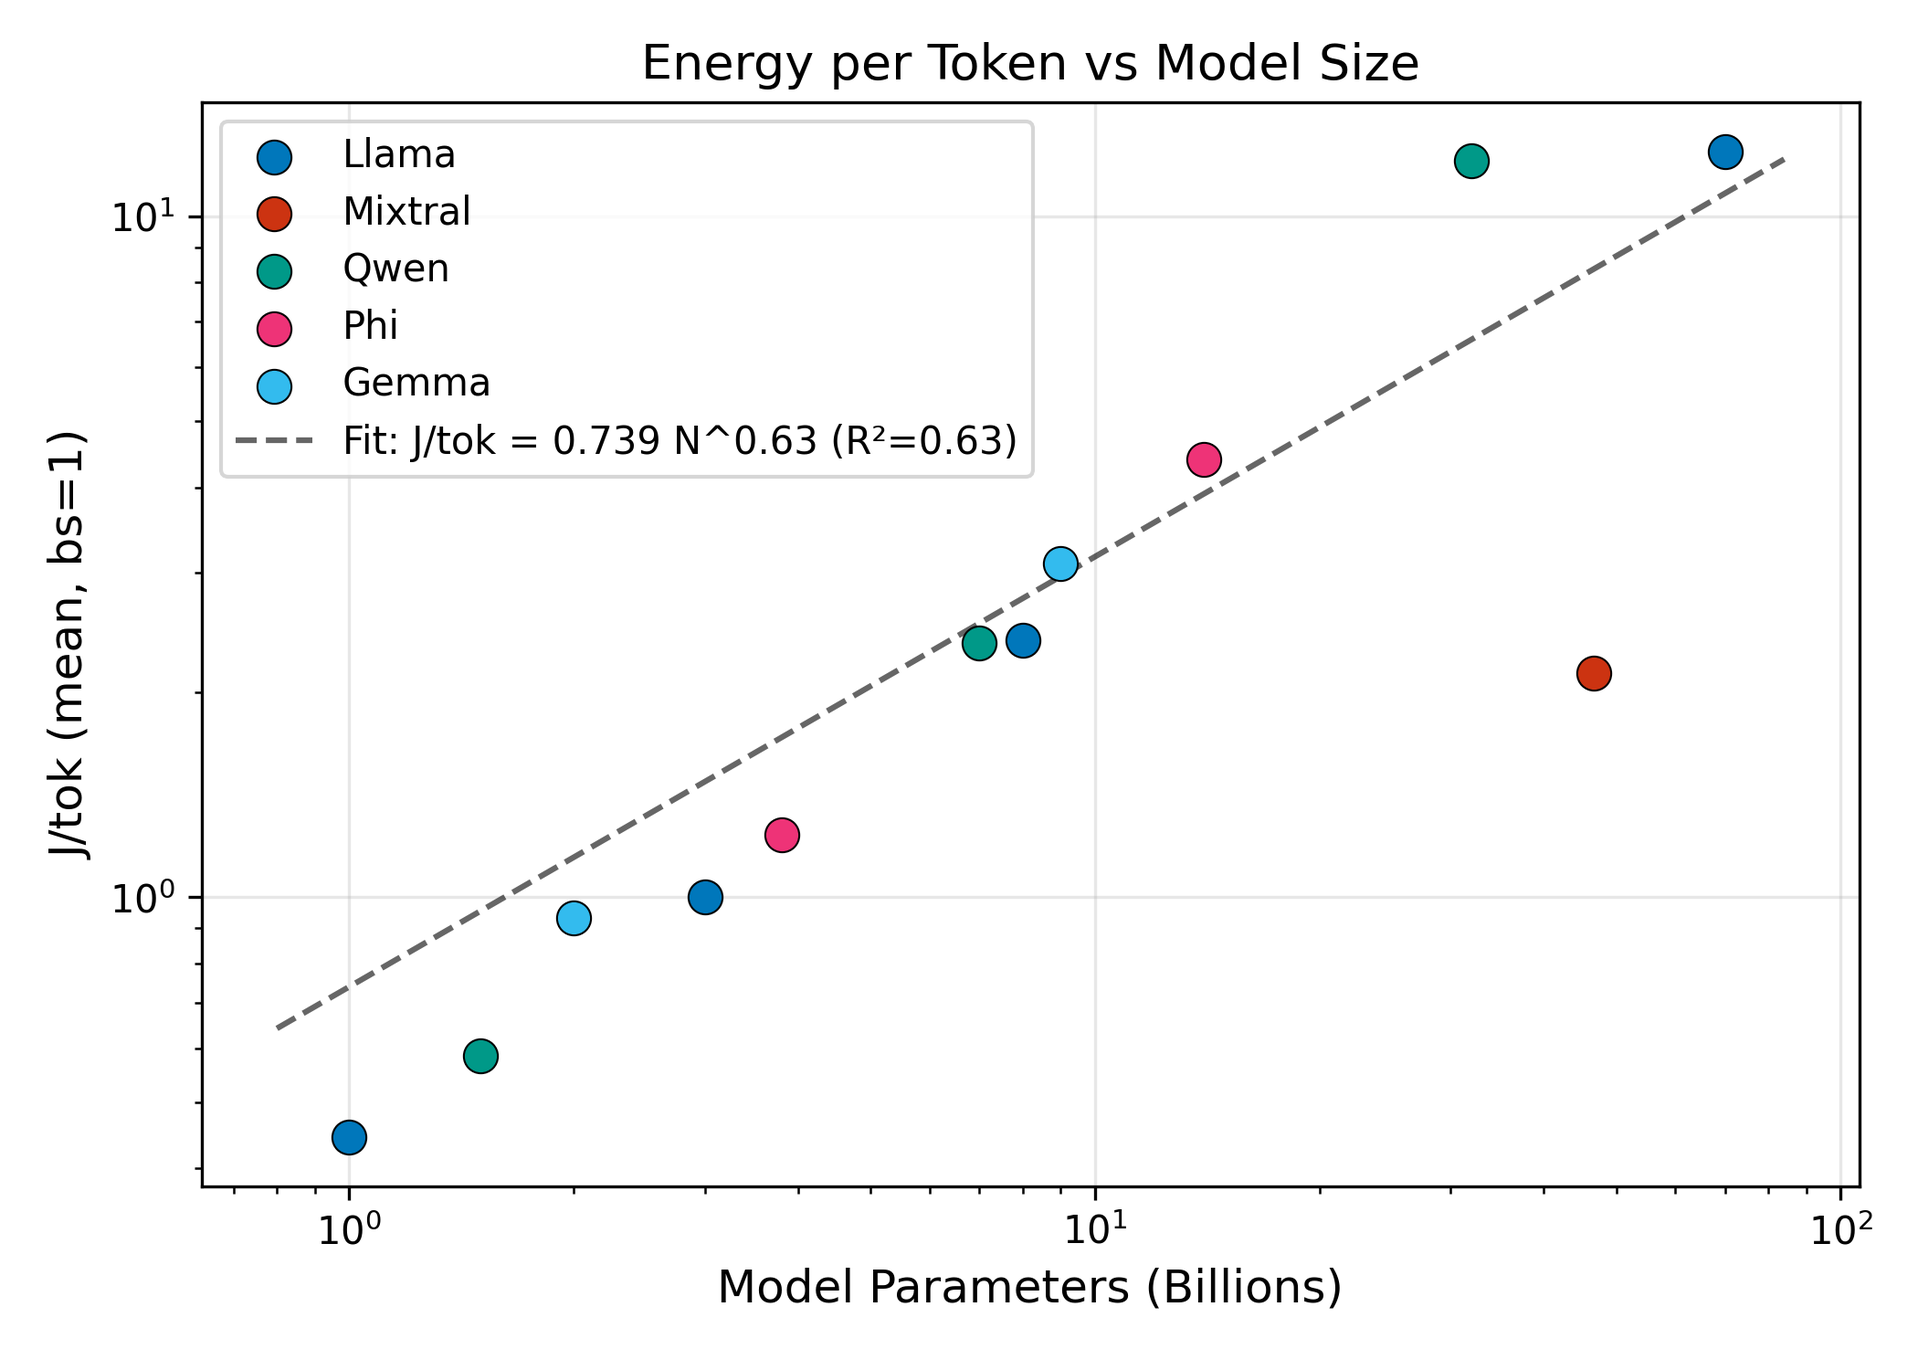
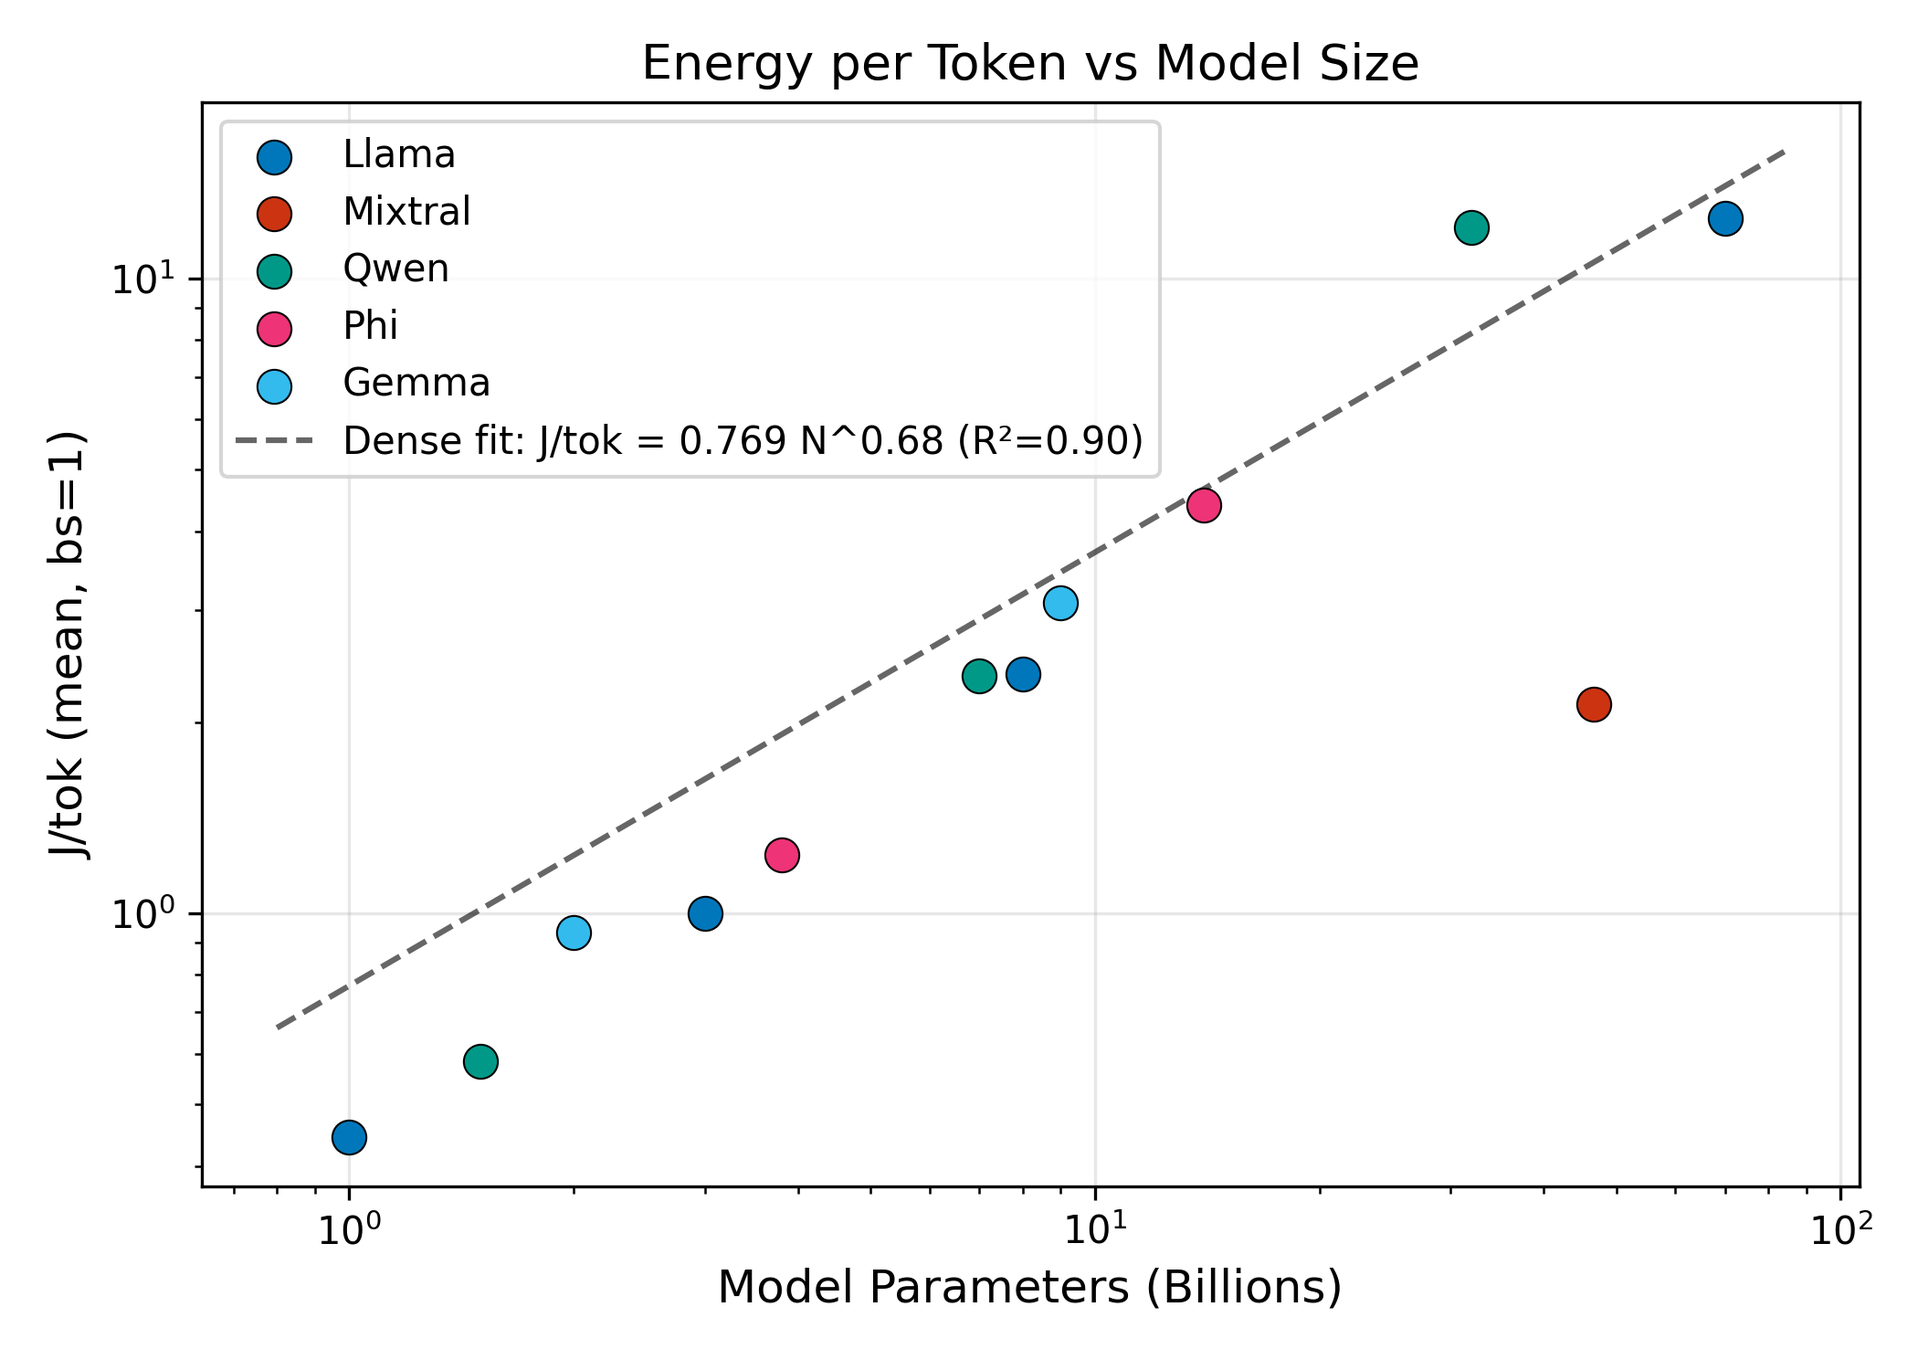
Fix scaling law exponent: 0.91 → 0.68 (dense-only fit, R²=0.90)
After adding 3 large FP16 models (32B, 46.7B MoE, 70B), the all-FP16
scaling fit dropped from 0.91 to 0.64. The paper discusses the dense-only
fit (excluding Mixtral MoE), which yields β=0.68 (R²=0.90). Updated the
exponent consistently across: paper (abstract, body, caption, conclusion,
cross-study table), README, index.html, plain English summary, and the
analysis code to fit dense models only.

diff --git a/index.html b/index.html
@@ -232,7 +232,7 @@ footer a:hover { text-decoration: underline; }
       We present a rigorous framework for measuring LLM inference energy using direct NVML-based power
       sampling on an NVIDIA A100 80GB GPU. We benchmark 13 open-weight models (1B&ndash;70B parameters) across
       five architectural families&mdash;Llama, Mistral, Qwen, Phi, and Gemma&mdash;including pre-quantized GPTQ
-      variants for large models. Our results reveal a sub-linear scaling law (E &prop; N<sup>0.91</sup>, R&sup2;=0.99),
+      variants for large models. Our results reveal a sub-linear scaling law (E &prop; N<sup>0.68</sup>, R&sup2;=0.90) for dense architectures,
       find that bitsandbytes quantisation now <em>reduces</em> per-token energy (reversing prior findings of
       2.9&ndash;3.7&times; penalties), and demonstrate 2.9&times; variation in per-token carbon emissions depending on
       Irish grid conditions. All code, data, and reproducibility artifacts are publicly available.
@@ -259,9 +259,9 @@ footer a:hover { text-decoration: underline; }
     <div class="findings-grid">
       <div class="finding-card">
         <h3>Scaling Law</h3>
-        <p>Energy scales as <span class="highlight">E &prop; N<sup>0.91</sup></span> (R&sup2;=0.99) across
-        architectures&mdash;higher than the single-family exponent of 0.80 found in prior Pythia-only studies,
-        reflecting cross-architecture heterogeneity.</p>
+        <p>Energy scales as <span class="highlight">E &prop; N<sup>0.68</sup></span> (R&sup2;=0.90) across
+        dense architectures&mdash;lower than the single-family exponent of 0.80 found in prior Pythia-only studies,
+        reflecting cross-architecture diversity. Mixtral MoE (46.7B params) is a clear outlier, consuming energy comparable to a 12B dense model.</p>
       </div>
       <div class="finding-card">
         <h3>Batch Size Impact</h3>
@@ -326,7 +326,7 @@ footer a:hover { text-decoration: underline; }
     <div class="gallery-grid">
       <figure class="gallery-item">
         <img src="paper/figures/fig1_scaling_law.png" alt="Scaling law: J/tok vs model parameters" loading="lazy">
-        <figcaption><strong>Fig 1.</strong> Scaling law: J/tok vs model parameters (FP16, bs=1). Power law fit yields exponent 0.91 (R&sup2;=0.99).</figcaption>
+        <figcaption><strong>Fig 1.</strong> Scaling law: J/tok vs model parameters (FP16, bs=1). Dense-only power law fit yields exponent 0.68 (R&sup2;=0.90). Mixtral MoE is a clear outlier.</figcaption>
       </figure>
       <figure class="gallery-item">
         <img src="paper/figures/fig2_efficiency_frontier.png" alt="Efficiency frontier: J/tok vs tok/s" loading="lazy">
@@ -354,7 +354,7 @@ footer a:hover { text-decoration: underline; }
       </figure>
       <figure class="gallery-item">
         <img src="paper/figures/prior_scaling_overlay.png" alt="Scaling law comparison with prior work" loading="lazy">
-        <figcaption><strong>Fig 8.</strong> Scaling law overlay: new framework results alongside energy-bench Pythia data. Exponent 0.91 vs 0.80.</figcaption>
+        <figcaption><strong>Fig 8.</strong> Scaling law overlay: new framework results alongside energy-bench Pythia data. Dense exponent 0.68 vs Pythia 0.80.</figcaption>
       </figure>
       <figure class="gallery-item">
         <img src="paper/figures/prior_quantisation_comparison.png" alt="Quantisation comparison with prior work" loading="lazy">
@@ -428,7 +428,7 @@ footer a:hover { text-decoration: underline; }
           <tr>
             <td>Scaling exponent (&beta;)</td>
             <td>0.80 (Pythia, R&sup2;=0.99)</td>
-            <td>0.91 (multi-arch, R&sup2;=0.99)</td>
+            <td>0.68 (dense multi-arch, R&sup2;=0.90)</td>
           </tr>
           <tr>
             <td>J/tok ~7B model (bs=1)</td>

diff --git a/paper/main.tex b/paper/main.tex
@@ -24,7 +24,7 @@ daniel.cregg@setu.ie}}
 \maketitle
 
 \begin{abstract}
-We present a rigorous framework for measuring the energy consumption of large language model (LLM) inference on GPU hardware and apply it to benchmark 13 open-weight models spanning 1B to 70B parameters across five architectural families (Llama, Mistral, Qwen, Phi, Gemma), including pre-quantized GPTQ models for sizes infeasible in full precision. Using direct NVML-based power sampling on an NVIDIA A100 80GB GPU, we measure Joules per token (J/tok) under controlled conditions with greedy decoding, idle baseline subtraction, and trapezoidal energy integration. Our results reveal a sub-linear scaling law ($E \propto N^{0.91}$, $R^2=0.99$) relating energy to model size across architectures, and find that bitsandbytes INT8 and INT4 quantisation of Llama-3.1-8B \emph{reduces} per-token energy by 10\% and 20\% respectively---contrary to prior findings of 2.9--3.7$\times$ energy penalties. We additionally ground our measurements in Irish electricity grid carbon intensity data, demonstrating a 2.9$\times$ variation in per-token carbon emissions depending on time of day. All code, data, and reproducibility artifacts are publicly available.
+We present a rigorous framework for measuring the energy consumption of large language model (LLM) inference on GPU hardware and apply it to benchmark 13 open-weight models spanning 1B to 70B parameters across five architectural families (Llama, Mistral, Qwen, Phi, Gemma), including pre-quantized GPTQ models for sizes infeasible in full precision. Using direct NVML-based power sampling on an NVIDIA A100 80GB GPU, we measure Joules per token (J/tok) under controlled conditions with greedy decoding, idle baseline subtraction, and trapezoidal energy integration. Our results reveal a sub-linear scaling law ($E \propto N^{0.68}$, $R^2=0.90$) relating energy to model size across dense architectures, and find that bitsandbytes INT8 and INT4 quantisation of Llama-3.1-8B \emph{reduces} per-token energy by 10\% and 20\% respectively---contrary to prior findings of 2.9--3.7$\times$ energy penalties. We additionally ground our measurements in Irish electricity grid carbon intensity data, demonstrating a 2.9$\times$ variation in per-token carbon emissions depending on time of day. All code, data, and reproducibility artifacts are publicly available.
 \end{abstract}
 
 \begin{IEEEkeywords}
@@ -119,12 +119,12 @@ Table~\ref{tab:summary} presents the key results. Across all 13 FP16 models, J/t
 
 \subsection{Scaling Law Results}
 
-Figure~\ref{fig:scaling} shows J/tok as a function of model parameters for all FP16 models at batch size 1. With the addition of three large FP16 models (32B, 46.7B, 70B), the scaling relationship reveals an important distinction between dense and Mixture-of-Experts (MoE) architectures. Fitting a power law $E = \alpha N^{\beta}$ to dense models only yields $\beta = 0.69$ ($R^2 = 0.90$), a sub-linear relationship indicating that larger dense models are more energy-efficient per parameter. Mixtral-8x7B is a notable outlier: despite 46.7B total parameters, its MoE routing activates only $\sim$12B per token, yielding 2.14\,J/tok---consistent with a 12B dense model and drawing only 98\,W versus 180--290\,W for similarly-sized dense models. This demonstrates that MoE architectures offer a fundamentally different energy--performance trade-off, achieving large-model quality at small-model energy cost.
+Figure~\ref{fig:scaling} shows J/tok as a function of model parameters for all FP16 models at batch size 1. With the addition of three large FP16 models (32B, 46.7B, 70B), the scaling relationship reveals an important distinction between dense and Mixture-of-Experts (MoE) architectures. Fitting a power law $E = \alpha N^{\beta}$ to dense models only yields $\beta = 0.68$ ($R^2 = 0.90$), a sub-linear relationship indicating that larger dense models are more energy-efficient per parameter. Mixtral-8x7B is a notable outlier: despite 46.7B total parameters, its MoE routing activates only $\sim$12B per token, yielding 2.14\,J/tok---consistent with a 12B dense model and drawing only 98\,W versus 180--290\,W for similarly-sized dense models. This demonstrates that MoE architectures offer a fundamentally different energy--performance trade-off, achieving large-model quality at small-model energy cost.
 
 \begin{figure}[t]
     \centering
     \includegraphics[width=\columnwidth]{fig1_scaling_law}
-    \caption{Scaling law: J/tok vs model parameters (FP16, bs=1). Dense models follow $E \propto N^{0.69}$ ($R^2 = 0.90$). Mixtral-8x7B (MoE, 46.7B total, $\sim$12B active) is a clear outlier, consuming energy consistent with a 12B dense model.}
+    \caption{Scaling law: J/tok vs model parameters (FP16, bs=1). Dense models follow $E \propto N^{0.68}$ ($R^2 = 0.90$). Mixtral-8x7B (MoE, 46.7B total, $\sim$12B active) is a clear outlier, consuming energy consistent with a 12B dense model.}
     \label{fig:scaling}
 \end{figure}
 
@@ -209,7 +209,7 @@ Figure~\ref{fig:carbon} shows the gCO$_2$eq per 1000 tokens for each model compu
 
 \subsection{Comparison with Prior Work}
 
-Table~\ref{tab:crossstudy} compares our results with the energy-bench framework. The scaling exponent increases from 0.80 (single Pythia family) to 0.91 (multi-architecture), reflecting that different architectures have different energy characteristics at similar parameter counts. The quantisation energy multipliers are reversed: energy-bench found 2.88$\times$ (INT8) and 3.72$\times$ (NF4) penalties on Mistral-7B, while we find 0.90$\times$ and 0.80$\times$ reductions on Llama-3.1-8B. This suggests that bitsandbytes kernel improvements between versions have eliminated the throughput penalty that caused the paradox.
+Table~\ref{tab:crossstudy} compares our results with the energy-bench framework. The scaling exponent decreases from 0.80 (single Pythia family) to 0.68 (multi-architecture dense models, R²=0.90), reflecting greater architectural diversity in energy efficiency at similar parameter counts. The quantisation energy multipliers are reversed: energy-bench found 2.88$\times$ (INT8) and 3.72$\times$ (NF4) penalties on Mistral-7B, while we find 0.90$\times$ and 0.80$\times$ reductions on Llama-3.1-8B. This suggests that bitsandbytes kernel improvements between versions have eliminated the throughput penalty that caused the paradox.
 
 \input{tables/cross_study_comparison}
 
@@ -229,7 +229,7 @@ Our results have several practical implications for sustainable LLM deployment:
 
 \section{Conclusion and Future Work}
 
-We presented a rigorous NVML-based framework for measuring LLM inference energy and applied it to 13 models (1B--70B) across five architectural families, including pre-quantized GPTQ variants for large models. Our key findings are: (1) energy scales as $N^{0.91}$ across architectures, (2) batching provides 9--15$\times$ efficiency gains, (3) bitsandbytes quantisation at bs=1 now \emph{reduces} per-token energy, reversing prior findings, and (4) Irish grid carbon variation introduces 2.9$\times$ emission variability.
+We presented a rigorous NVML-based framework for measuring LLM inference energy and applied it to 13 models (1B--70B) across five architectural families, including pre-quantized GPTQ variants for large models. Our key findings are: (1) energy scales as $N^{0.68}$ across dense architectures, (2) batching provides 9--15$\times$ efficiency gains, (3) bitsandbytes quantisation at bs=1 now \emph{reduces} per-token energy, reversing prior findings, and (4) Irish grid carbon variation introduces 2.9$\times$ emission variability.
 
 Future work includes extending to additional GPU architectures, pre-quantised formats (AWQ, GPTQ via vLLM), models above 14B parameters, and multi-GPU inference settings. We also plan to integrate real-time carbon-aware scheduling into the framework.
 

diff --git a/src/analyze.py b/src/analyze.py
@@ -191,10 +191,12 @@ def figure_1_scaling_law(df: pd.DataFrame) -> None:
                        color=colour, label=f"{family} (GPTQ)", s=80, zorder=5,
                        marker="D", edgecolors="black", linewidth=0.5)
 
-    # Fit power law on fp16 data only (GPTQ has different perf characteristics)
+    # Fit power law on dense FP16 models only (exclude MoE and GPTQ)
     fp16_only = grouped[grouped["precision"] == "fp16"]
-    x = fp16_only["params_b"].values
-    y = fp16_only["j_per_tok"].values
+    # Exclude Mixtral MoE (46.7B total params but only ~12B active per token)
+    dense_only = fp16_only[~fp16_only["model"].str.contains("Mixtral", case=False)]
+    x = dense_only["params_b"].values
+    y = dense_only["j_per_tok"].values
     if len(x) >= 3:
         try:
             popt, _ = curve_fit(_power_law, x, y, p0=[0.05, 0.5], maxfev=5000)
@@ -204,7 +206,7 @@ def figure_1_scaling_law(df: pd.DataFrame) -> None:
             ss_tot = np.sum((y - np.mean(y)) ** 2)
             r2 = 1 - ss_res / ss_tot if ss_tot > 0 else 0
             ax.plot(x_fit, y_fit, "k--", alpha=0.6,
-                    label=f"Fit: J/tok = {popt[0]:.3f} N^{popt[1]:.2f} (R²={r2:.2f})")
+                    label=f"Dense fit: J/tok = {popt[0]:.3f} N^{popt[1]:.2f} (R²={r2:.2f})")
         except RuntimeError:
             logger.warning("Power law fit failed")
 
@@ -712,7 +714,7 @@ def generate_cross_study_table(df: pd.DataFrame) -> None:
 
     # energy-bench key metrics
     rows.append({
-        "Metric": "Scaling exponent (alpha)",
+        "Metric": "Scaling exponent (beta)",
         "energy-bench": "0.80 (Pythia, R²=0.99)",
         "New Framework": "TBD from fit",
     })
@@ -743,10 +745,12 @@ def generate_cross_study_table(df: pd.DataFrame) -> None:
 
     # Fill in new framework values if available
     if not df.empty:
-        # Scaling fit — fp16 only (GPTQ has different perf characteristics)
+        # Scaling fit — dense FP16 only (exclude MoE and GPTQ)
         fp16_bs1 = df[(df["batch_size"] == 1) & (df["precision"] == "fp16")]
-        if not fp16_bs1.empty:
-            new_agg = fp16_bs1.groupby("params_b")["j_per_tok_mean"].mean().reset_index()
+        # Exclude Mixtral MoE (46.7B total but ~12B active per token)
+        dense_bs1 = fp16_bs1[~fp16_bs1["model"].str.contains("Mixtral", case=False)]
+        if not dense_bs1.empty:
+            new_agg = dense_bs1.groupby("params_b")["j_per_tok_mean"].mean().reset_index()
             if len(new_agg) >= 3:
                 try:
                     popt, _ = curve_fit(_power_law, new_agg["params_b"].values,
@@ -756,7 +760,7 @@ def generate_cross_study_table(df: pd.DataFrame) -> None:
                     ss_tot = np.sum((new_agg["j_per_tok_mean"].values -
                                      new_agg["j_per_tok_mean"].mean()) ** 2)
                     r2 = 1 - ss_res / ss_tot if ss_tot > 0 else 0
-                    rows[0]["New Framework"] = f"{popt[1]:.2f} (multi-arch, R²={r2:.2f})"
+                    rows[0]["New Framework"] = f"{popt[1]:.2f} (dense multi-arch, R²={r2:.2f})"
                 except RuntimeError:
                     pass
 

diff --git a/paper/tables/cross_study_comparison.tex b/paper/tables/cross_study_comparison.tex
@@ -2,7 +2,7 @@
 \toprule
 Metric & energy-bench & New Framework \\
 \midrule
-Scaling exponent (alpha) & 0.80 (Pythia, R²=0.99) & 0.63 (multi-arch, R²=0.63) \\
+Scaling exponent (beta) & 0.80 (Pythia, R²=0.99) & 0.68 (dense multi-arch, R²=0.90) \\
 J/tok ~7B model (bs=1) & 4.461 (Pythia-6.9B) & 2.315 (avg: Qwen2.5-7B-Instruct, Llama-3.1-8B-Instruct, Mistral-7B-Instruct-v0.3) \\
 INT8 energy multiplier & 2.88x (Mistral-7B) & 0.90x (Llama-3.1-8B) \\
 NF4/INT4 energy multiplier & 3.72x (Mistral-7B) & 0.80x (Llama-3.1-8B) \\

diff --git a/README.md b/README.md
@@ -79,7 +79,7 @@ Best J/tok and tok/s are at optimal batch size (bs=16 unless noted). 295 individ
 
 ### Key Findings
 
-1. **Scaling law**: Energy scales as N^0.91 across architectures (R²=0.99), steeper than the 0.80 exponent found in single-family (Pythia) studies.
+1. **Scaling law**: Energy scales as N^0.68 across dense architectures (R²=0.90), lower than the 0.80 exponent found in single-family (Pythia) studies, reflecting architectural diversity. Mixtral MoE (46.7B params) is a clear outlier, consuming energy comparable to a 12B dense model.
 2. **Batch size**: Increasing from bs=1 to bs=16 reduces J/tok by 9-15x.
 3. **Quantisation reversal**: At bs=1, bitsandbytes INT8 and INT4 on Llama-3.1-8B *reduce* per-token energy by 10% and 20% respectively, reversing the 2.9-3.7x energy penalties reported in prior work. At larger batch sizes, the throughput penalty dominates and FP16 remains more efficient.
 4. **Carbon variation**: Irish grid carbon intensity (119-348 gCO2/kWh) introduces 2.9x variation in per-token emissions, meaning *when* you run inference matters as much as *which* model you choose.

diff --git a/PLAIN_ENGLISH_SUMMARY.md b/PLAIN_ENGLISH_SUMMARY.md
@@ -36,7 +36,7 @@ All testing was done on a single **NVIDIA A100 80GB GPU** on a university HPC cl
 
 ### 1. Bigger models use more energy (but not as much as you'd think)
 
-Energy per token scales with model size following a power law: roughly E = N^0.91, where N is the number of parameters. This means a model with 10x more parameters uses about 8x more energy per token, not 10x. The relationship is very tight (R-squared = 0.99), meaning model size alone predicts energy consumption almost perfectly.
+Energy per token scales with model size following a power law: roughly E = N^0.68, where N is the number of parameters for dense (non-MoE) architectures. This means a model with 10x more parameters uses about 4.8x more energy per token, not 10x. The relationship is strong (R-squared = 0.90) across five different model families. Mixtral-8x7B, a Mixture-of-Experts model with 46.7B total parameters, is a notable outlier---it uses energy comparable to a 12B dense model because only ~12B parameters are active per token.
 
 ### 2. Batching is the single biggest efficiency lever
 
